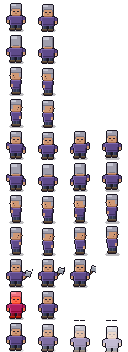
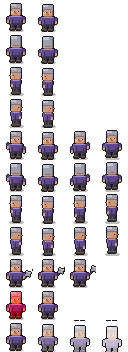
Sprite kalitesini artir: tile dokusu, karakter detayi, kenar gecisi
Tile'lar (ekranin en buyuk alani, en duz goruneni):
- Zemin artik duz taban rengi degil: once genis yumusak yama kumeleri,
  ustune doku. Duz taban rengi ne kadar cok gorunurse tile o kadar
  "kutu" gibi okunuyordu.
- Cim saplari 2 degil 3 pixel ve ucu parlak; 16x16'da iki pixel doku
  degil gurultu gibi okunuyordu.
- Tasa catlak ve mineral parlamasi, kuma tepecik bandi eklendi.
- _edge_dither: tile KENARLARINA komsu malzemeden birkac pixel. Gercek
  gecis tile'lari (48 parcali autotile seti) cizmek yerine kenarlara
  azicik komsu rengi karistirmak ayni isi cok daha ucuza yapiyor —
  komsu farkli malzemeyse gecis, ayniysa doku olarak okunuyor.

Karakterler:
- Goz artik tek renk degil: koyu bebek + tek pixel ak. Tek renk goz
  32x32'de cansiz duruyordu.
- Burun golgesi, yanak parlamasi, yaka parlamasi, kumas kirisiklari,
  kemer ve diz golgesi. Hepsi 1-2 pixel; amac duz renk bloklarini
  hacimli yuzeylere cevirmek.

DENENDI VE GERI ALINDI: varyantlara %4'luk taban tonu farki vermek.
Amac genis cim alanlarinin tek duz levha gibi okunmasini kirmakti;
sonuc tam tersi oldu. TileMap varyanti KONUMDAN sectigi icin yan yana
gelen ayni malzemeli tile'lar arasinda gozle gorulur parlaklik
basamaklari olustu -- kacinilmak istenen satranc deseninin daniskasi.
Karsilastirma karesinde acikca goruldu ve geri alindi; koda neden
denenmemesi gerektigi yazildi. Ton dalgalanmasi tile SINIRINDA degil
tile ICINDE olmali.

Ilk denemede doku fazla yogun kacti (toprak "kirli" degil GURULTULU
[…]

diff --git a/Tools/generate_placeholders.py b/Tools/generate_placeholders.py
@@ -338,6 +338,29 @@ TILES: list[TileSpec] = [
 ]
 
 
+def _edge_dither(d: ImageDraw.ImageDraw, rng, size: int,
+                 color: tuple[int, int, int, int], count: int) -> None:
+    """
+    Tile'in KENARLARINA komsu malzemeden birkac pixel serpistirir.
+
+    Tile tabanli haritalarda her tile keskin bir kare olarak okunur ve
+    zemin satranc tahtasina doner. Gercek gecis tile'lari (48 parcali
+    autotile seti) cizmek yerine kenarlara azicik komsu rengi karistirmak
+    ayni isi cok daha ucuza yapiyor: komsu farkli malzemeyse gecis,
+    ayniysa doku olarak okunuyor.
+    """
+    for _ in range(count):
+        # Kenara yakin bir nokta: hangi kenar oldugu rastgele.
+        if rng.random() < 0.5:
+            x = rng.randrange(size)
+            y = rng.choice((rng.randrange(0, 3), rng.randrange(size - 3, size)))
+        else:
+            y = rng.randrange(size)
+            x = rng.choice((rng.randrange(0, 3), rng.randrange(size - 3, size)))
+
+        d.point((x, y), fill=color)
+
+
 def draw_tile(spec: TileSpec, variant: int) -> Image.Image:
     """
     Bir tile'in tek varyanti. 16x16, tam opak (zemin katmani).
@@ -346,33 +369,76 @@ def draw_tile(spec: TileSpec, variant: int) -> Image.Image:
     Isik her yerde SOL USTTEN gelir.
     """
     n = spec.ramp
-    img = Image.new("RGBA", (TILE_SIZE, TILE_SIZE), tone(n, 1))
-    d = ImageDraw.Draw(img)
     rng = seeded_rng("tile", spec.key, variant)
     S = TILE_SIZE
 
+    # DENENDI VE GERI ALINDI: varyantlara %4'luk taban tonu farki vermek.
+    #
+    # Amac genis cim alanlarinin tek duz levha gibi okunmasini kirmakti;
+    # sonuc tam tersi oldu. TileMap varyanti konumdan sectigi icin yan yana
+    # gelen ayni malzemeli tile'lar arasinda gozle gorulur parlaklik
+    # basamaklari olustu — yani kacinilmak istenen satranc deseninin
+    # daniskasi. Ton dalgalanmasi tile SINIRINDA degil, tile ICINDE
+    # olmali; bu yuzden cesitlilik yalnizca dokudan geliyor.
+    img = Image.new("RGBA", (TILE_SIZE, TILE_SIZE), tone(n, 1))
+    d = ImageDraw.Draw(img)
+
     if spec.kind == "grass":
+        # Zemin tek renk kalmasin: genis, yumusak yama kumeleri once
+        # cizilir, doku onlarin uzerine biner. Duz taban rengi ne kadar
+        # cok gorunurse tile o kadar "kutu" gibi okunuyor.
+        for _ in range(3):
+            cx, cy = rng.randrange(S), rng.randrange(S)
+            r = rng.randint(3, 5)
+            for dy in range(-r, r + 1):
+                for dx in range(-r, r + 1):
+                    if dx * dx + dy * dy > r * r:
+                        continue
+                    if rng.random() < 0.45:
+                        continue
+                    d.point(((cx + dx) % S, (cy + dy) % S), fill=tone(n, 2))
+
         # Kumeli koyu tutamlar: duzgun dagilmis benek televizyon karincasi
         # gibi durur, gercek dokuda detay kumelenir.
-        for x, y in pixelart.cluster_noise(rng, S, 2, 2):
+        for x, y in pixelart.cluster_noise(rng, S, 4, 2):
             d.point((x, y), fill=tone(n, 0))
-        # Cimen saplari: iki pixel dikey, acik tonda
-        for _ in range(9):
-            x, y = rng.randrange(S), rng.randrange(1, S)
+
+        # Cimen saplari: uc pixel dikey, ucu parlak. Iki pixel'lik sap
+        # 16x16'da doku degil gurultu gibi okunuyordu.
+        for _ in range(11):
+            x, y = rng.randrange(S), rng.randrange(2, S)
             d.point([(x, y), (x, y - 1)], fill=tone(n, 2))
-        for _ in range(4):
-            d.point((rng.randrange(S), rng.randrange(S)), fill=tone(n, 3))
+            d.point((x, y - 2), fill=tone(n, 3))
+
+        # Kenar ditheringi: birkac toprak tonlu pixel. Komsu tile toprak
+        # oldugunda gecis, cim oldugunda doku olarak okunuyor — tile
+        # tabanli haritalarda kenarlari yumusatmanin en ucuz yolu.
+        _edge_dither(d, rng, S, tone("dirt", 1), 4)
 
     elif spec.kind == "dirt":
-        for x, y in pixelart.cluster_noise(rng, S, 4, 1):
-            d.point((x, y), fill=tone(n, 0))
+        # Iki yumusak koyu yama. Ucu denendi ve toprak "kirli" degil
+        # GURULTULU gorunuyordu: doku, dikkat cekmeden derinlik vermeli.
+        for _ in range(2):
+            cx, cy = rng.randrange(S), rng.randrange(S)
+            r = rng.randint(3, 5)
+            for dy in range(-r, r + 1):
+                for dx in range(-r, r + 1):
+                    if dx * dx + dy * dy > r * r or rng.random() < 0.65:
+                        continue
+                    d.point(((cx + dx) % S, (cy + dy) % S), fill=tone(n, 0))
+
+        for x, y in pixelart.cluster_noise(rng, S, 3, 1):
+            d.point((x, y), fill=tone(n, 2))
+
         # Cakil: ustu isikli altı golgeli -> 2 pixel ile hacim
         for _ in range(4):
             x, y = rng.randrange(S - 1), rng.randrange(S - 1)
             d.point((x, y), fill=tone(n, 2))
             d.point((x + 1, y + 1), fill=tone(n, 0))
-        for _ in range(6):
+        for _ in range(4):
             d.point((rng.randrange(S), rng.randrange(S)), fill=tone(n, 3))
+
+        _edge_dither(d, rng, S, tone("grass", 1), 3)
 
     elif spec.kind == "rock":
         # Kirikli yuzey: fasetlerin sol ustu isikli, sag altı golgeli.
@@ -382,12 +448,19 @@ def draw_tile(spec: TileSpec, variant: int) -> Image.Image:
             d.polygon([(cx, cy), (cx + size, cy + 1), (cx + size - 1, cy + size),
                        (cx - 1, cy + size - 1)], fill=tone(n, 2))
             d.line([(cx + size, cy + 1), (cx + size - 1, cy + size)], fill=tone(n, 0))
-        for _ in range(2):
+        # Catlaklar: asagi dogru yurüyen koyu cizgiler.
+        for _ in range(4):
             x, y = rng.randrange(S), rng.randrange(S)
-            for _ in range(rng.randint(3, 6)):
+            for _ in range(rng.randint(4, 8)):
                 d.point((x % S, y % S), fill=tone(n, 0))
                 x += rng.choice((-1, 0, 1))
                 y += 1
+
+        # Mineral parlamalari: tasin olu gorunmesini engelliyor.
+        for _ in range(5):
+            d.point((rng.randrange(S), rng.randrange(S)), fill=tone(n, 3))
+
+        _edge_dither(d, rng, S, tone("dirt", 1), 5)
 
     elif spec.kind == "sand":
         # Ruzgar cizgileri ACIK tonda: kumda golge degil, isik parlar.
@@ -396,9 +469,18 @@ def draw_tile(spec: TileSpec, variant: int) -> Image.Image:
             y, x = rng.randrange(S), rng.randrange(S)
             for i in range(rng.randint(4, 8)):
                 d.point(((x + i) % S, y), fill=tone(n, 2))
+        # Kum tepecikleri: yumusak yatay bantlar.
+        for _ in range(3):
+            y = rng.randrange(S)
+            width = rng.randint(5, 10)
+            start = rng.randrange(S)
+            for i in range(width):
+                d.point(((start + i) % S, y), fill=tone(n, 3))
+                d.point(((start + i) % S, (y + 1) % S), fill=tone(n, 0))
+
         for _ in range(6):
             d.point((rng.randrange(S), rng.randrange(S)), fill=tone(n, 0))
-        for _ in range(4):
+        for _ in range(5):
             d.point((rng.randrange(S), rng.randrange(S)), fill=tone(n, 3))
 
     elif spec.kind == "water":
@@ -655,6 +737,9 @@ def draw_character_frame(spec: CharacterSpec, state: str, frame: int) -> Image.I
         d.rectangle([lx, top, lx + 3, 27 + oy], fill=C(pants, 1))
         d.line([(lx, top), (lx, 27 + oy)], fill=C(pants, 2))          # sol ışık
         d.line([(lx + 3, top), (lx + 3, 27 + oy)], fill=C(pants, 0))  # sağ gölge
+
+        # Diz: bacagi tek blok olmaktan cikaran tek pixel'lik golge.
+        d.point((lx + 1, top + 2), fill=C(pants, 0))
         # Bot: bacaktan koyu ve bir pixel geniş -> ayak hissi
         d.rectangle([lx - 1 + (1 if offset > 0 else 0), 28 + oy,
                      lx + 3, 29 + oy], fill=C(boot, 1))
@@ -671,6 +756,22 @@ def draw_character_frame(spec: CharacterSpec, state: str, frame: int) -> Image.I
     d.line([(body_left, 16 + oy), (body_right, 16 + oy)], fill=C(shirt, 2))
     d.line([(body_right, 16 + oy), (body_right - 1, 24 + oy)], fill=C(shirt, 0))
     d.line([(body_left + 2, 23 + oy), (body_right - 2, 23 + oy)], fill=C(shirt, 0))
+
+    # Yaka: kafayla govde arasindaki geciste ince bir parlama. Olmadan
+    # kafa dogrudan bir renk blogunun uzerinde duruyor gibi okunuyordu.
+    d.line([(body_left + 2, 16 + oy), (body_right - 2, 16 + oy)], fill=C(shirt, 3))
+
+    # Kumas kirisiklari: govdenin ortasinda iki kisa dikey golge. Duz
+    # renk blogunu kumasa cevirmenin en ucuz yolu.
+    if not side:
+        d.line([(body_left + 3, 19 + oy), (body_left + 3, 22 + oy)], fill=C(shirt, 0))
+        d.line([(body_right - 3, 20 + oy), (body_right - 3, 22 + oy)], fill=C(shirt, 0))
+    else:
+        d.line([(body_left + 4, 19 + oy), (body_left + 4, 22 + oy)], fill=C(shirt, 0))
+
+    # Bel hizasinda kemer: silueti ikiye bolup govdeyi kisaltiyor,
+    # karakter daha dengeli duruyor.
+    d.line([(body_left + 1, 24 + oy), (body_right - 1, 24 + oy)], fill=C("leather", 1))
 
     # =========================== KOLLAR ===========================
     # Kol = kısa gömlek kolu + ten. Yandan bakışta tek kol görünür.
@@ -726,11 +827,25 @@ def draw_character_frame(spec: CharacterSpec, state: str, frame: int) -> Image.I
     # Göz TEK pixel yüksekliğinde. İki katlı göz bloğu, 32x32'lik bir
     # kafada kaş gibi okunuyor ve karakter sürekli kızgın görünüyordu.
     eye = (34, 30, 46, alpha)
+    white = (238, 240, 248, alpha)
+
     if facing == "down" or state in ("harvest", "hurt", "death"):
+        # Goz: koyu bebek + tek pixel ak. Tek renk goz 32x32'de cansiz
+        # duruyor; ak, bakisi canlandiran en ucuz detay.
         d.rectangle([head_left + 2, 11 + oy, head_left + 3, 11 + oy], fill=eye)
+        d.point((head_left + 2, 11 + oy), fill=white)
         d.rectangle([head_right - 3, 11 + oy, head_right - 2, 11 + oy], fill=eye)
+        d.point((head_right - 3, 11 + oy), fill=white)
+
+        # Burun golgesi: yuzu duz birakmiyor.
+        d.point((15, 12 + oy), fill=C(skin, 0))
+
         d.point((head_left + 4, 13 + oy), fill=C(skin, 0))          # ağız
         d.point((head_left + 5, 13 + oy), fill=C(skin, 0))
+
+        # Yanaklar: hafif parlama, yuze hacim veriyor.
+        d.point((head_left + 1, 12 + oy), fill=C(skin, 2))
+        d.point((head_right - 1, 12 + oy), fill=C(skin, 2))
     elif facing == "left":
         d.point((head_left + 2, 11 + oy), fill=eye)
         d.point((head_left - 1, 11 + oy), fill=C(skin, 1))          # burun çıkıntısı
